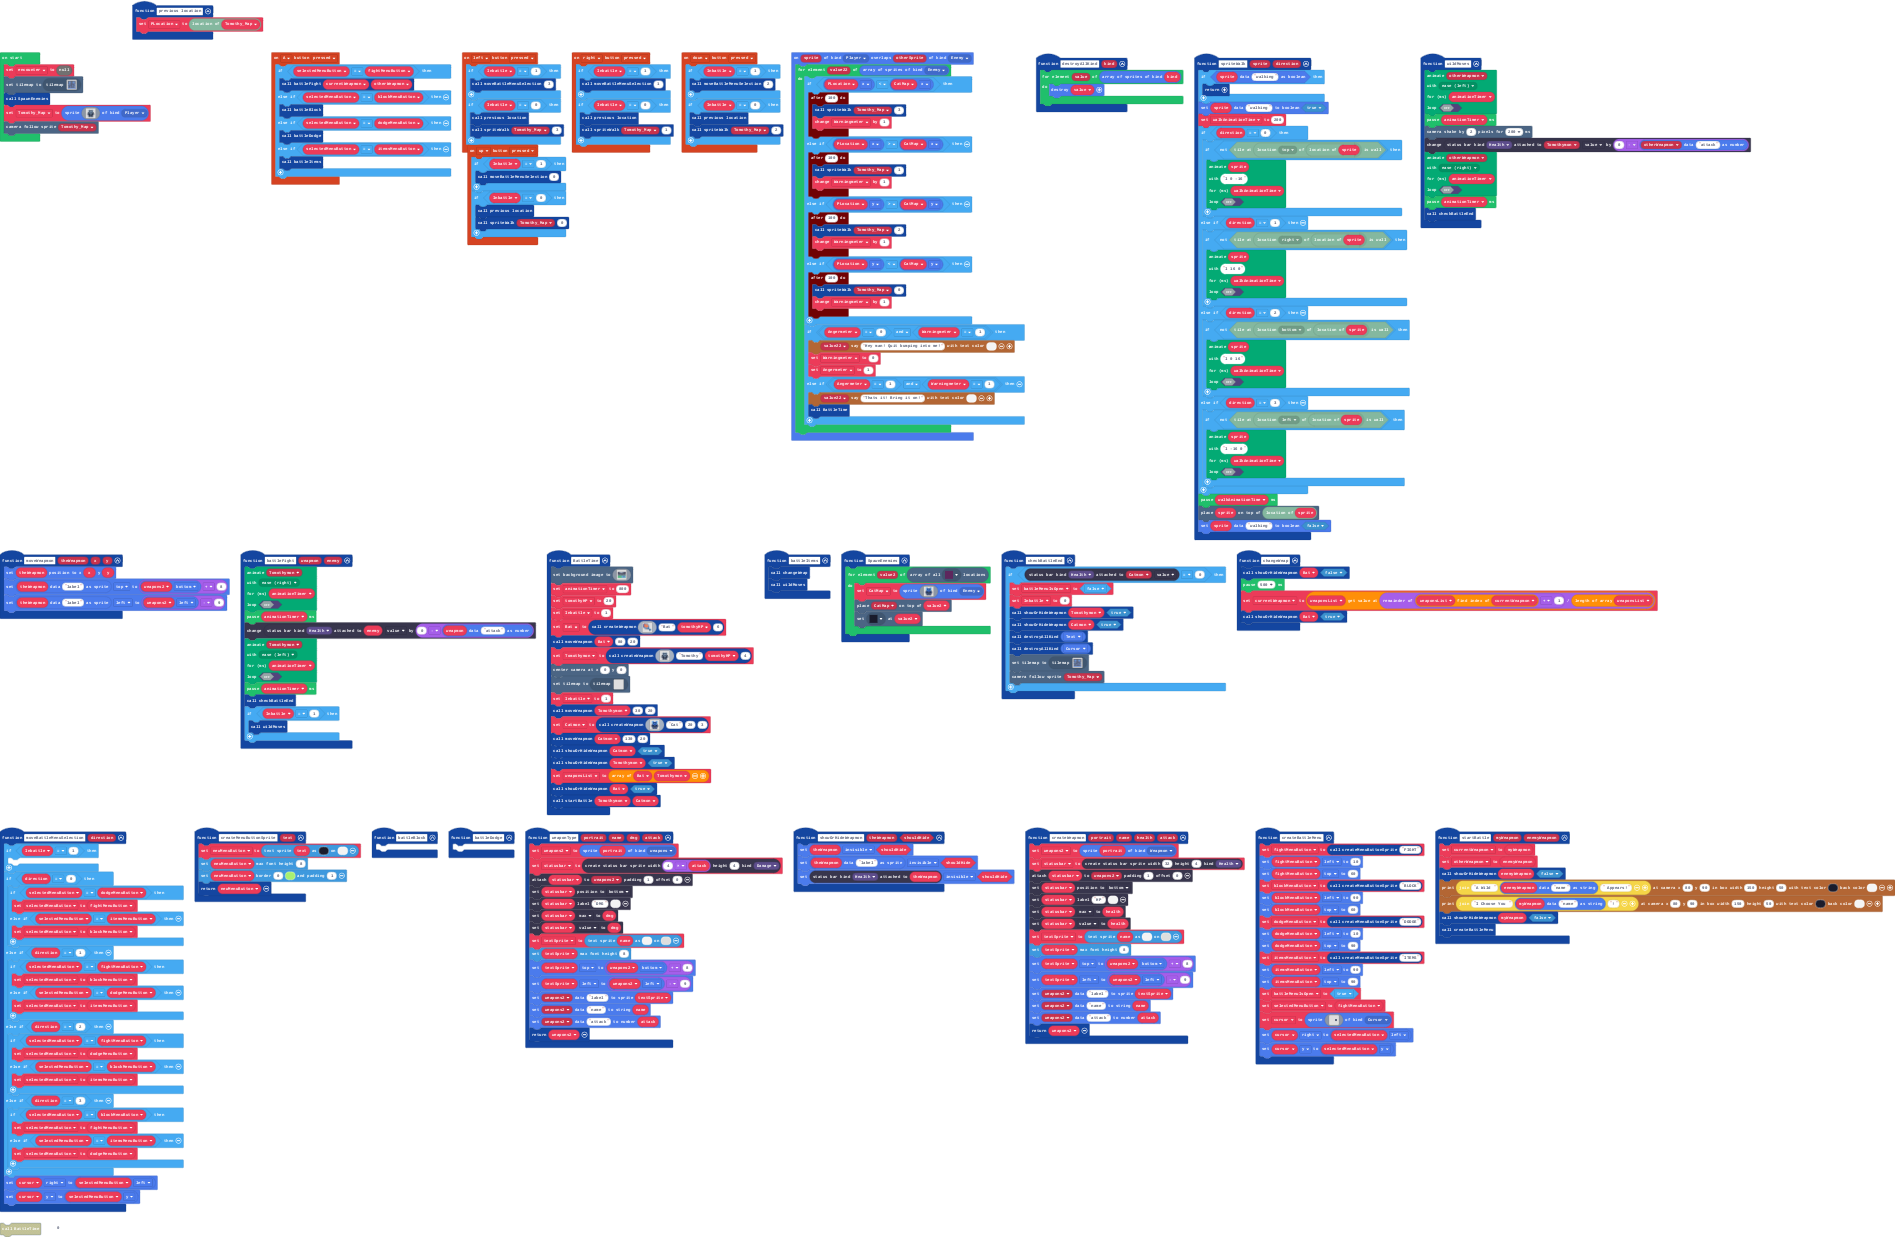
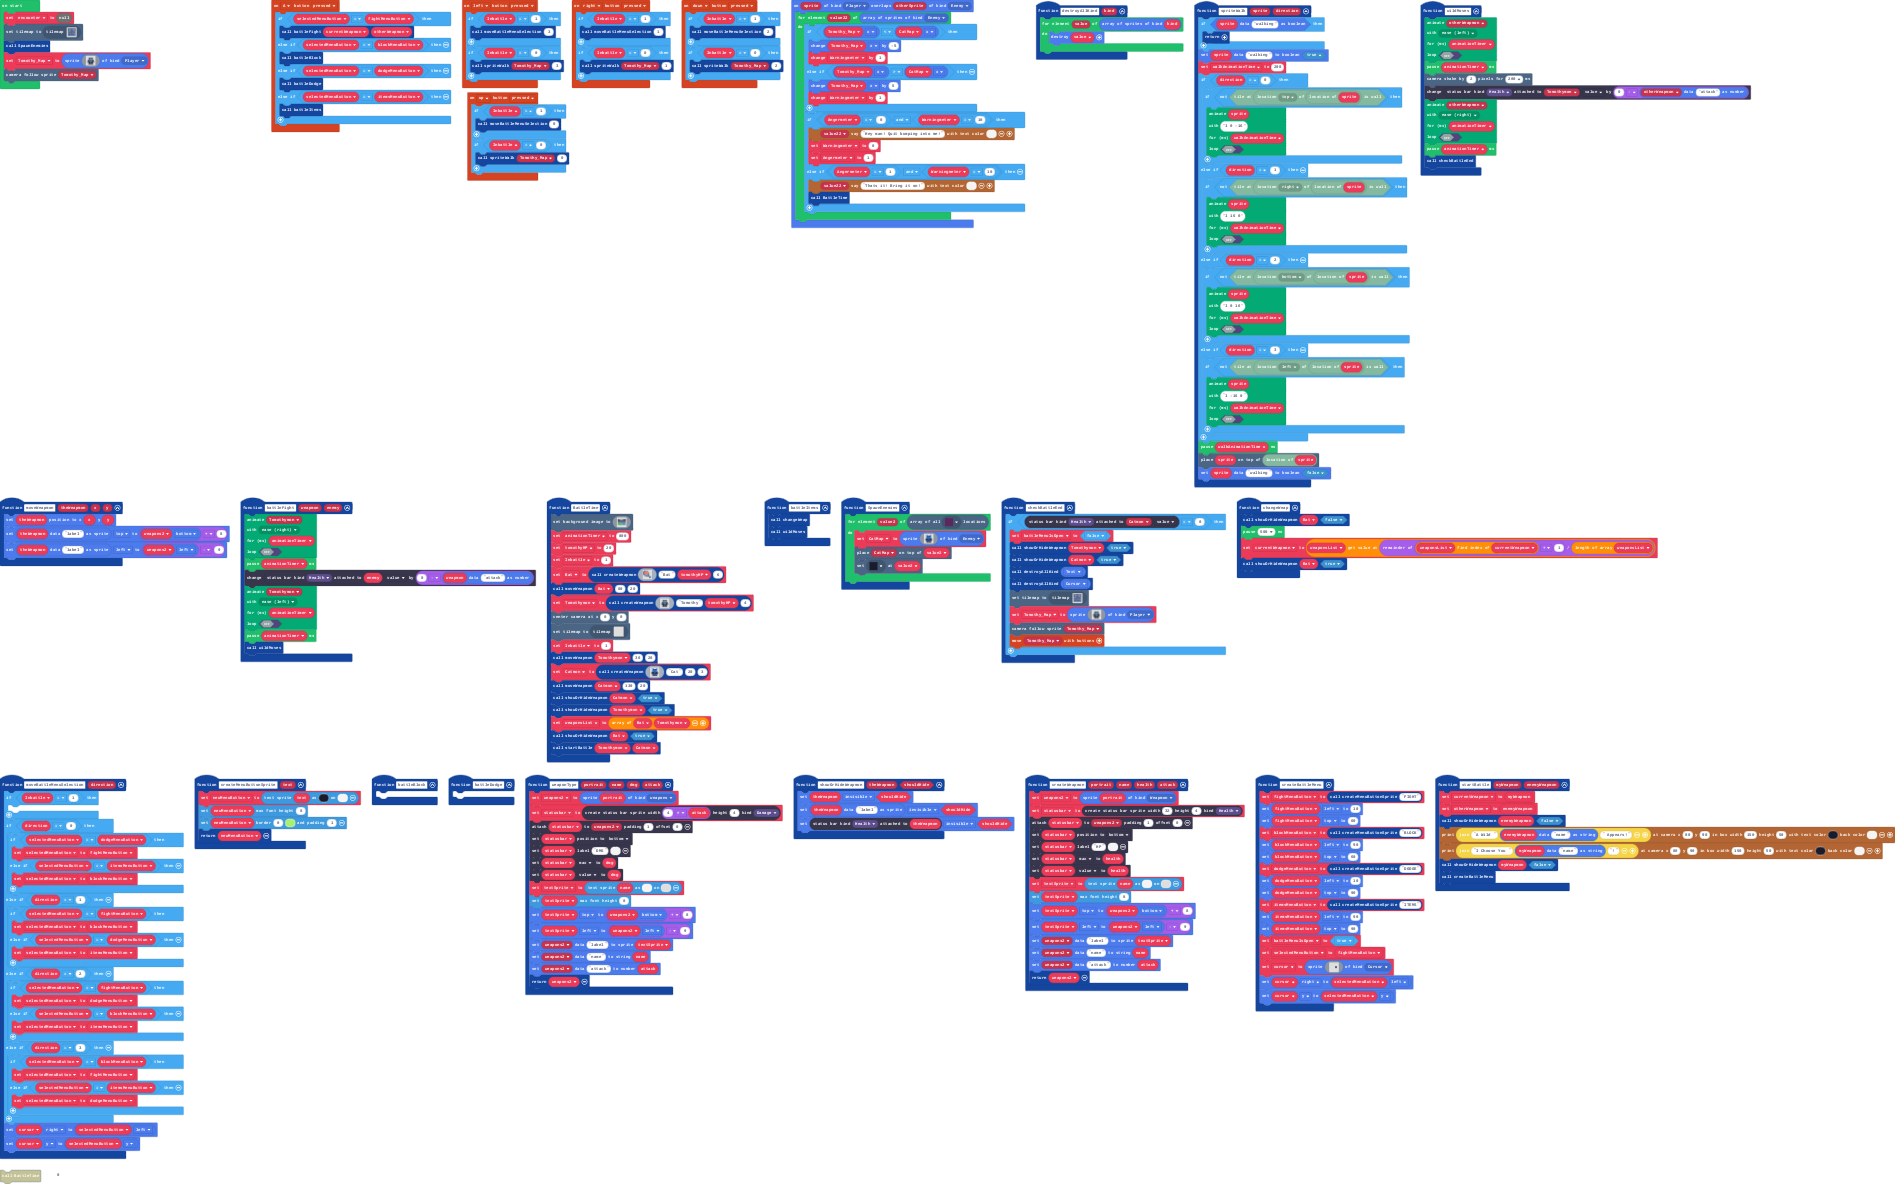
Restore '2/9/2023, 9:29:53 AM Restore '2/8/2023, 9:49:00 AM Update main.ts''

Changed region(s): [[0.0, 0.0, 1.0, 1.0]]

diff --git a/main.ts b/main.ts
@@ -43,7 +43,6 @@ controller.up.onEvent(ControllerButtonEvent.Pressed, function () {
         moveBattleMenuSelection(0)
     }
     if (Inbattle == 0) {
-        previous_location()
         spriteWalk(Tomothy_Map, 0)
     }
 })
@@ -181,7 +180,6 @@ controller.left.onEvent(ControllerButtonEvent.Pressed, function () {
         moveBattleMenuSelection(3)
     }
     if (Inbattle == 0) {
-        previous_location()
         spriteWalk(Tomothy_Map, 3)
     }
 })
@@ -229,7 +227,6 @@ controller.right.onEvent(ControllerButtonEvent.Pressed, function () {
         moveBattleMenuSelection(1)
     }
     if (Inbattle == 0) {
-        previous_location()
         spriteWalk(Tomothy_Map, 1)
     }
 })
@@ -243,15 +240,11 @@ controller.down.onEvent(ControllerButtonEvent.Pressed, function () {
         moveBattleMenuSelection(2)
     }
     if (Inbattle == 0) {
-        previous_location()
         spriteWalk(Tomothy_Map, 2)
     }
 })
 function battleBlock () {
 	
-}
-function previous_location () {
-    PLocation = tiles.locationOfSprite(Tomothy_Map)
 }
 function startBattle (myWeapmon: Sprite, enemyWeapmon: Sprite) {
     currentWeapmon = myWeapmon
@@ -329,32 +322,18 @@ function battleItems () {
 }
 sprites.onOverlap(SpriteKind.Player, SpriteKind.Enemy, function (sprite, otherSprite) {
     for (let value22 of sprites.allOfKind(SpriteKind.Enemy)) {
-        if (PLocation.x < CatMap.x) {
-            timer.after(100, function () {
-                spriteWalk(Tomothy_Map, 3)
-                Warningmeter += 1
-            })
-        } else if (PLocation.x > CatMap.x) {
-            timer.after(100, function () {
-                spriteWalk(Tomothy_Map, 1)
-                Warningmeter += 1
-            })
-        } else if (PLocation.y > CatMap.y) {
-            timer.after(100, function () {
-                spriteWalk(Tomothy_Map, 2)
-                Warningmeter += 1
-            })
-        } else if (PLocation.y < CatMap.y) {
-            timer.after(100, function () {
-                spriteWalk(Tomothy_Map, 0)
-                Warningmeter += 1
-            })
+        if (Tomothy_Map.x < CatMap.x) {
+            Tomothy_Map.x += -5
+            Warningmeter += 1
+        } else if (Tomothy_Map.x > CatMap.x) {
+            Tomothy_Map.x += 5
+            Warningmeter += 1
         }
-        if (Angermeter == 0 && Warningmeter == 1) {
+        if (Angermeter == 0 && Warningmeter == 10) {
             story.spriteSayText(value22, "Hey man! Quit bumping into me!", 12)
             Warningmeter = 0
             Angermeter = 1
-        } else if (Angermeter == 1 && Warningmeter == 1) {
+        } else if (Angermeter == 1 && Warningmeter == 10) {
             story.spriteSayText(value22, "Thats it! Bring it on!", 12)
             BattleTime()
         }
@@ -365,7 +344,6 @@ let Warningmeter = 0
 let tomothyHP = 0
 let weaponsList: Sprite[] = []
 let Bat: Sprite = null
-let PLocation: tiles.Location = null
 let currentWeapmon: Sprite = null
 let CatMap: Sprite = null
 let textSprite: TextSprite = null
